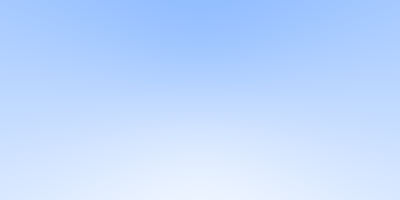
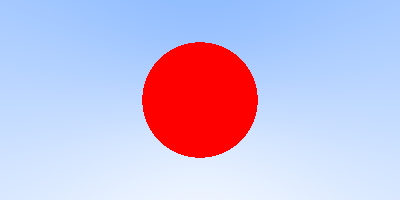
red sphere
- plus clang-format

Changed region(s): [[0.33, 0.21, 0.66, 0.81]]

diff --git a/rt.cpp b/rt.cpp
@@ -10,13 +10,33 @@ using namespace r3;
 namespace
 {
 
-Vec3f ColorFromRay( const Ray& r )
+Vec3f EnvColorFromRay( const Ray& ray )
 {
-	Vec3f unit = r.dir / r.dir.Length();
+	Vec3f unit = ray.dir / ray.dir.Length();
 	float t = 0.5f * ( unit.y + 1.0f );
 	// printf( "t = %.2f\n", t );
 	return ( 1.0f - t ) * Vec3f( 1, 1, 1 ) + t * Vec3f( 0.5f, 0.7f, 1.0f );
 }
+
+float Discriminant( float* co )
+{
+	return co[ 1 ] * co[ 1 ] - 4 * co[ 0 ] * co[ 2 ];
+}
+
+struct Sphere
+{
+	Sphere( const Vec3f& center, const float radius ) : c( center ), r( radius ) {}
+
+	bool Hits( const Ray& ray )
+	{
+		float coeffs[ 3 ] = {Dot( ray.dir, ray.dir ), 2 * Dot( ray.dir, ray.o - c ), Dot( ray.o - c, ray.o - c ) - r * r};
+		float discr = Discriminant( coeffs );
+		return discr >= 0;
+	}
+
+	Vec3f c;
+	float r;
+};
 
 } // namespace
 
@@ -31,13 +51,15 @@ int main( int argc, char** argv )
 	Vec3f scale( 4.0f / w, 2.0f / h, 1.0f );
 	Vec3f bias( -2.0f, -1.0f, -1.0f );
 
+	Sphere sphere( Vec3f( 0, 0, -1 ), 0.5 );
+
 	for ( int j = 0; j < h; j++ )
 	{
 		for ( int i = 0; i < w; i++ )
 		{
 			Vec3f coord( i + 0.5f, ( h - 1 ) - j + 0.5f, 0 );
 			Ray ray( origin, coord * scale + bias );
-			Vec3f col = ColorFromRay( ray );
+			Vec3f col = sphere.Hits( ray ) ? Vec3f( 1, 0, 0 ) : EnvColorFromRay( ray );
 			int idx = ( j * w + i ) * 3;
 			img[ idx + 0 ] = int( 255 * col.x + 0.5f );
 			img[ idx + 1 ] = int( 255 * col.y + 0.5f );
